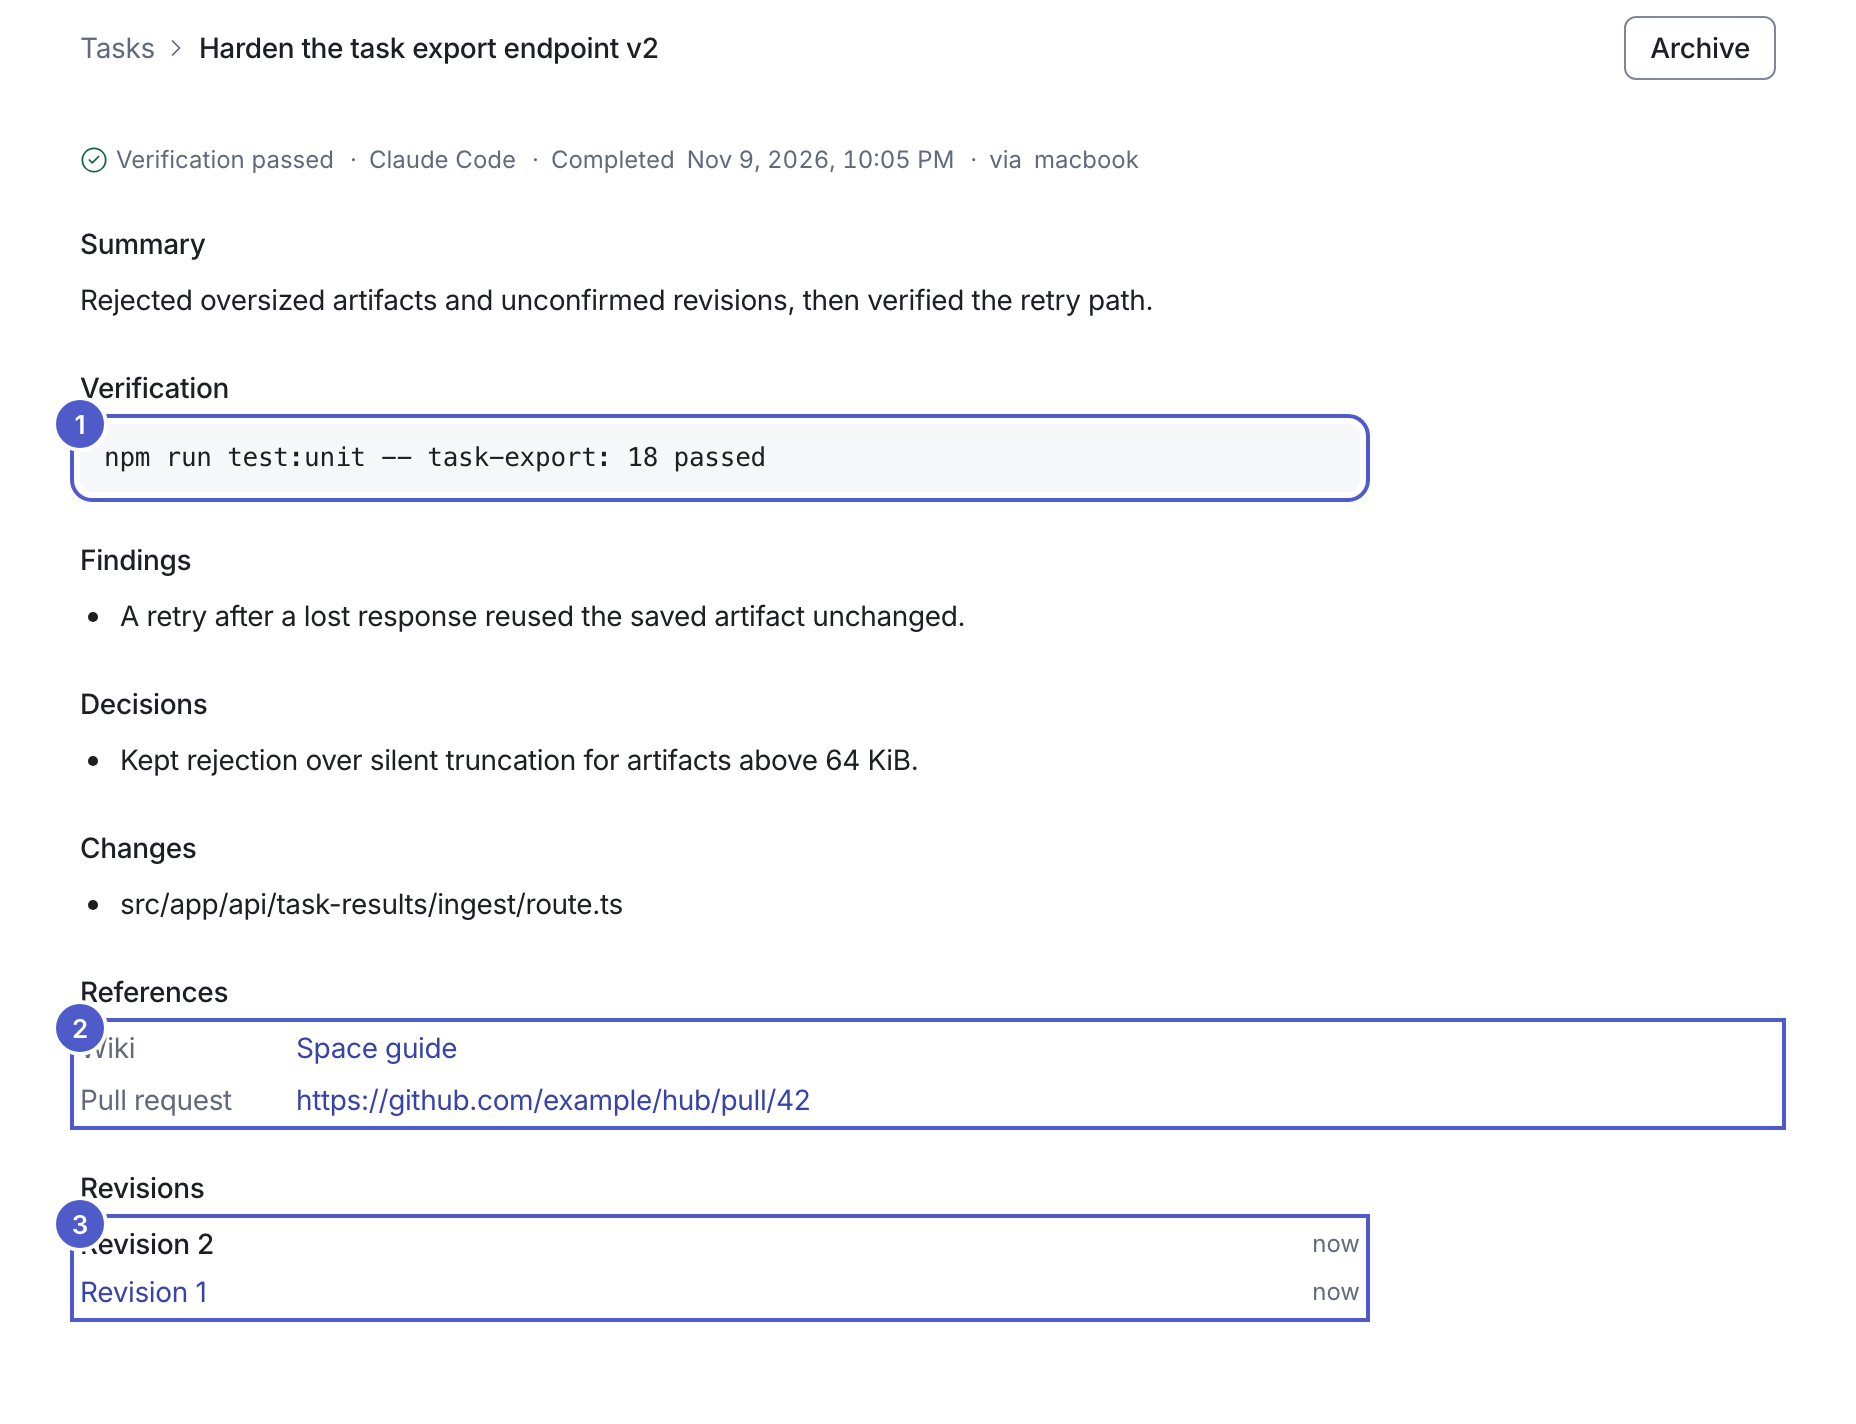
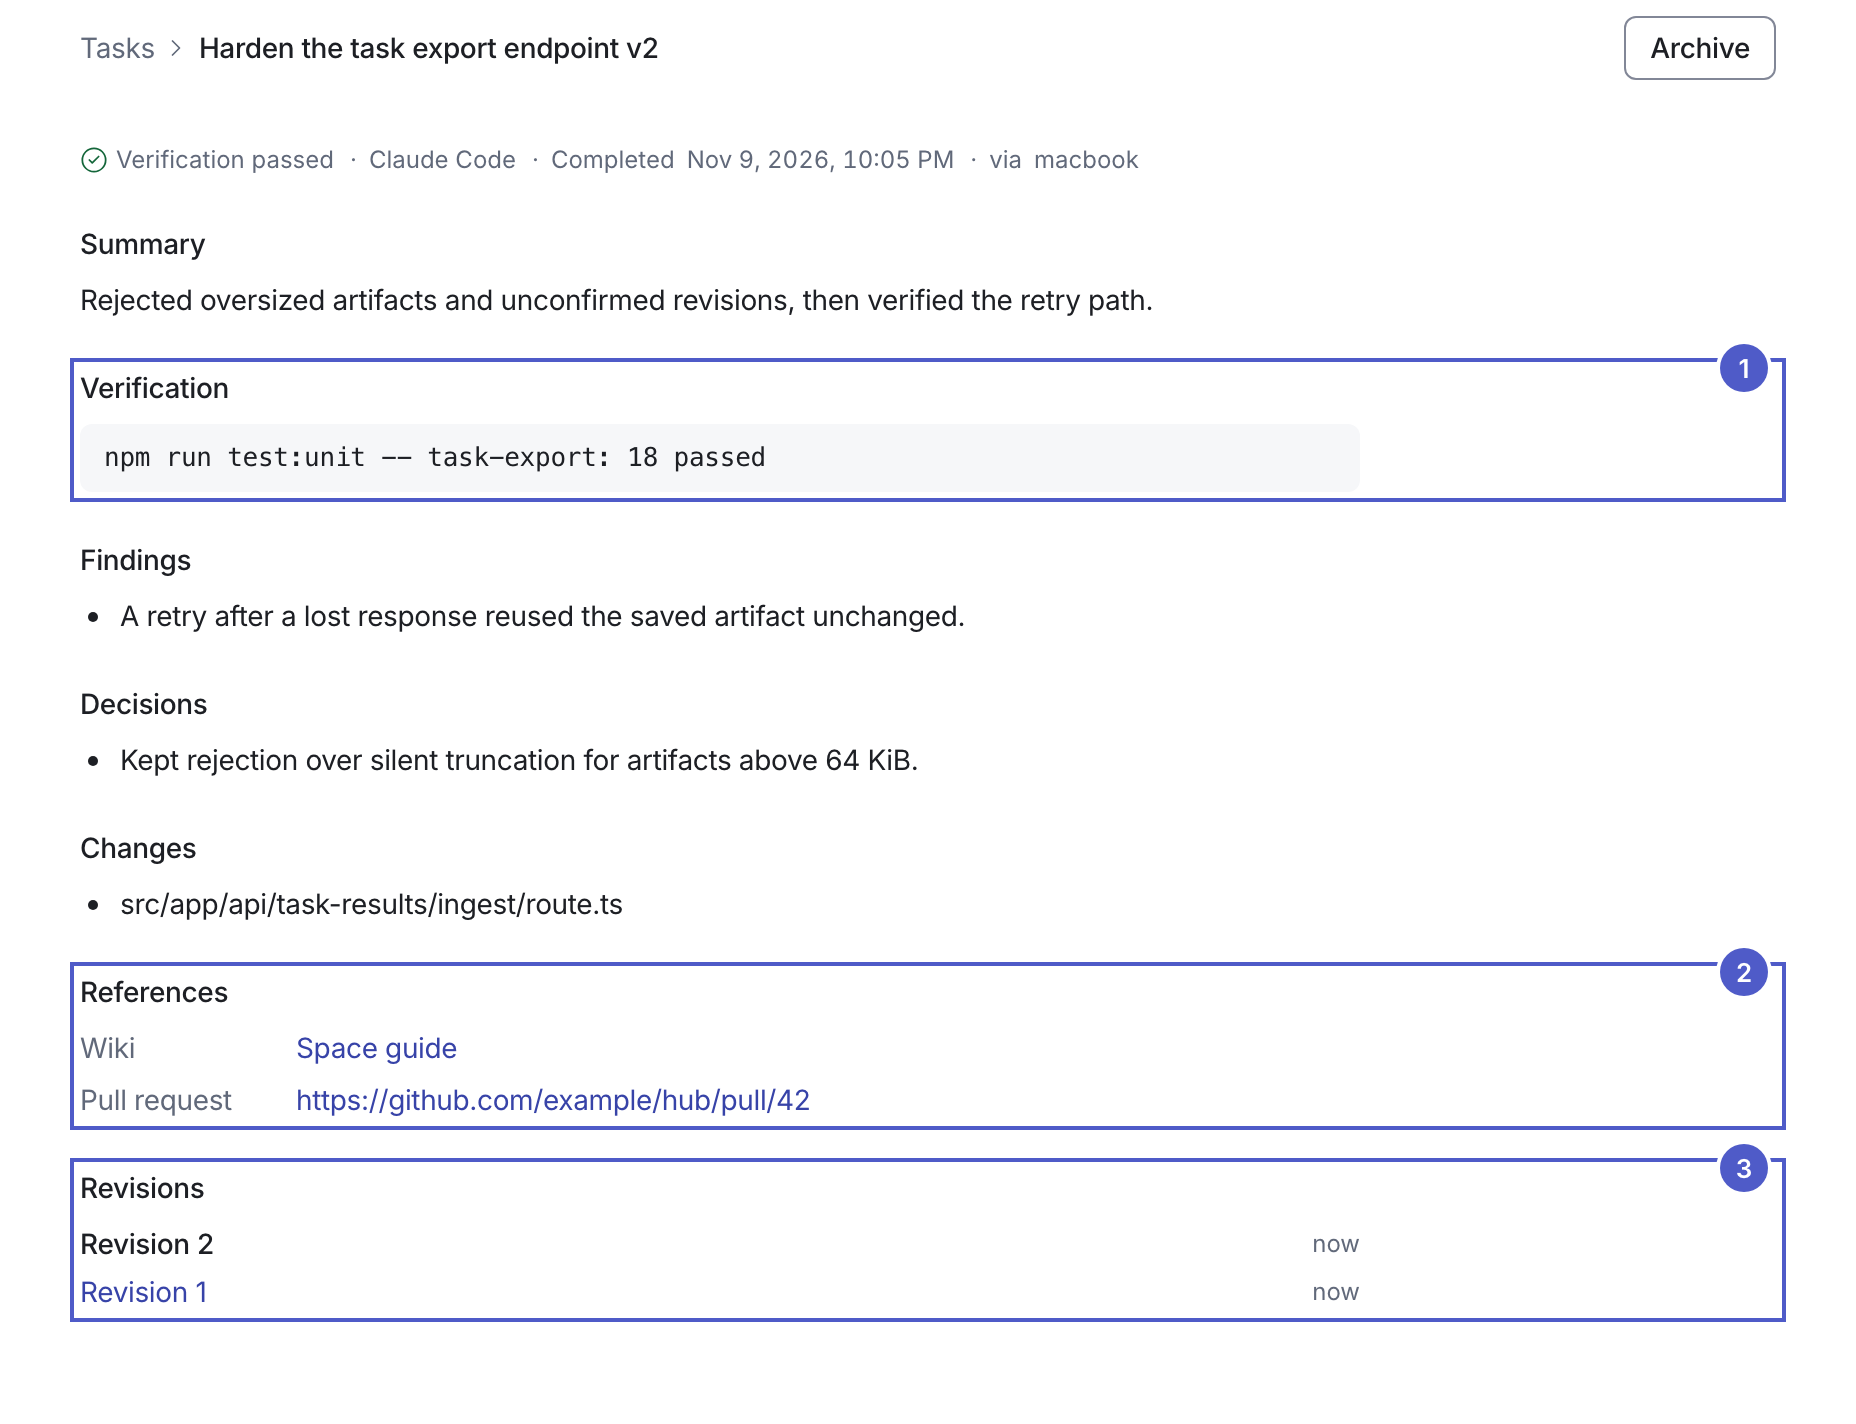
fix(help): correct Inbox and Tasks facts and keep capture marks clear

diff --git a/src/components/help/user-guide-content.ts b/src/components/help/user-guide-content.ts
@@ -82,7 +82,7 @@ export function userGuideContent(locale:GuideLocale,options:{taskSearch?:boolean
       ],[
         {title:"已讀、解決與未讀",items:[
           "開啟討論會標為已讀，不代表你已回覆或解決。",
-          "之後有人回覆會再次變成未讀；側欄 Inbox 的數字是未讀討論數。",
+          "之後有人回覆會再次變成未讀；側欄 Inbox 的數字是未讀通知數（留言、提及、分享與提案）。",
           "Resolve 是另一個動作，不會順便處理其他討論。",
         ]},
         {title:"失效連結與權限",items:[
@@ -107,7 +107,7 @@ export function userGuideContent(locale:GuideLocale,options:{taskSearch?:boolean
       section("tasks","Tasks：代理完成的任務",[
         "在 Claude Code 或 OpenCode 完成任務後執行 /hub-export，再從側欄開啟 Tasks。",
         "第一次使用：Set up export → 建立 binding → 複製一次性指令，在自己的機器執行。每台機器一個 binding；token 只顯示一次。",
-        "清單分 Active／Archived。每列顯示 Agent、revision 與完成時間，點開詳情會標明是哪個 binding 匯出的。",
+        "清單分 Active／Archived。每列顯示 Agent 與完成時間，超過一個版本時才顯示 revision；點開詳情會標明是哪個 binding 匯出的。",
         "詳情包含 Summary、Verification、Findings／Decisions／Changes、References 與 Revisions。Verification 是代理回報的結果，不是 Hub 的認證。",
         ...(taskSearch?["啟用搜尋時，每列還會顯示 verification 標記與命中的摘要片段。"]:[]),
       ],[
@@ -115,6 +115,8 @@ export function userGuideContent(locale:GuideLocale,options:{taskSearch?:boolean
           "Wiki 路徑或文件 id 會在你的 My Space 內解析成連結；找不到標 not found，多個來源同名標 ambiguous。",
           "檔案、commit 與 pull request 參照只是標籤；PR 只有在是 https 連結時才能開啟。",
           "同一個任務再次匯出會建立新 revision；舊版仍可從 Revisions 閱讀。",
+          "封存後仍可閱讀，也能從同一頁還原。",
+          "超過 64 KiB 的內容會被拒絕，不會截斷。",
           "只有完成的任務能匯出；代理不得編造測試、變更或參照。",
         ]},
         {title:"Token、binding 與撤銷",items:[
@@ -218,7 +220,7 @@ export function userGuideContent(locale:GuideLocale,options:{taskSearch?:boolean
       ],[
         {title:"Read, resolve and unread",items:[
           "Opening a discussion marks it read; it does not mean you replied or resolved it.",
-          "A later reply makes the discussion unread again. The sidebar's Inbox badge counts unread discussions.",
+          "A later reply makes the discussion unread again. The sidebar's Inbox badge counts unread notices — comments, mentions, shares and proposals.",
           "Resolving is a separate action; it does not mark other discussions read.",
         ]},
         {title:"Dead links and permissions",items:[
@@ -243,7 +245,7 @@ export function userGuideContent(locale:GuideLocale,options:{taskSearch?:boolean
       section("tasks","Tasks: results from coding agents",[
         "Finish a task in Claude Code or OpenCode, run /hub-export, then open Tasks from the sidebar.",
         "First use: Set up export → create a binding → copy the one-time line and run it on your own machine. One binding per machine; the token is shown once.",
-        "The list has Active / Archived. Each row shows the agent, revision and completion time, and opens the detail that names the binding.",
+        "The list has Active / Archived. Each row shows the agent and completion time, plus the revision when a task has more than one; it opens the detail that names the binding.",
         "The detail shows Summary, Verification, Findings / Decisions / Changes, References and Revisions. Verification is what the agent reported, not a Hub certification.",
         ...(taskSearch?["With search enabled, each result also shows the verification badge and a matched excerpt."]:[]),
       ],[
@@ -251,6 +253,8 @@ export function userGuideContent(locale:GuideLocale,options:{taskSearch?:boolean
           "A Wiki path or document id resolves to a link inside your My Space; a path with no match reads not found, and one present in several sources reads ambiguous.",
           "File, commit and pull-request references are labels; a pull request opens only when it is an https link.",
           "Exporting the same task again creates a new revision; older revisions stay readable from Revisions.",
+          "Archived results stay readable and can be restored from the same detail.",
+          "Artifacts above 64 KiB are rejected, not truncated.",
           "Only completed tasks can be exported. The agent must not invent tests, changes or references.",
         ]},
         {title:"Token, binding and revocation",items:[

diff --git a/tests/e2e/user-guide-screenshots.spec.ts b/tests/e2e/user-guide-screenshots.spec.ts
@@ -17,19 +17,19 @@ test.use({viewport:{width:1280,height:800},deviceScaleFactor:2});
  * Clips `region` (margin, capped height) and shoots both themes. Each target is outlined like a focus
  * ring and numbered at its top-left corner, kept inside the clip, in the order the caption gives the steps.
  */
-async function capture(page:Page,name:string,region:Locator,targets:Locator[]=[],{maxHeight=560,margin=16,offset=3}={}) {
+async function capture(page:Page,name:string,region:Locator,targets:Locator[]=[],{maxHeight=560,margin=16,offset=3,markSide="left"}:{maxHeight?:number;margin?:number;offset?:number;markSide?:"left"|"right"}={}) {
   const box=(await region.boundingBox())!;
   const clip={x:Math.max(0,box.x-margin),y:Math.max(0,box.y-margin),width:box.width+margin*2,height:Math.min(box.height+margin*2,maxHeight)};
   const boxes=await Promise.all(targets.map(target=>target.boundingBox()));
   for(const target of targets)await target.evaluate((el,offset)=>{el.style.outline="2px solid var(--kh-focus)";el.style.outlineOffset=`${offset}px`;},offset);
-  await page.evaluate(({boxes,clip})=>boxes.forEach((b,i)=>{
+  await page.evaluate(({boxes,clip,markSide})=>boxes.forEach((b,i)=>{
     const mark=document.createElement("div");
     mark.className="guide-mark";
     mark.textContent=String(i+1);
-    Object.assign(mark.style,{position:"fixed",left:`${Math.max(clip.x+4,b!.x-12)}px`,top:`${Math.max(clip.y+4,b!.y-12)}px`,width:"24px",height:"24px",borderRadius:"9999px",
+    Object.assign(mark.style,{position:"fixed",left:`${markSide==="right"?Math.min(clip.x+clip.width-28,b!.x+b!.width-28):Math.max(clip.x+4,b!.x-12)}px`,top:`${Math.max(clip.y+4,b!.y-12)}px`,width:"24px",height:"24px",borderRadius:"9999px",
       background:"var(--kh-primary)",color:"var(--kh-on-primary)",fontSize:"13px",fontWeight:"600",lineHeight:"24px",textAlign:"center",boxShadow:"0 0 0 2px var(--kh-bg)",zIndex:"2147483647"});
     document.body.append(mark);
-  }),{boxes,clip});
+  }),{boxes,clip,markSide});
   for(const theme of ["light","dark"]) {
     await page.evaluate(value=>{document.documentElement.dataset.theme=value;},theme);
     await page.screenshot({path:`${output}/${name}-${theme}.png`,clip,animations:"disabled",caret:"hide"});
@@ -137,18 +137,18 @@ test("capture user guide screenshots",async({page,request})=>{
     await page.goto(detailUrl);
     const detailSection=(name:string)=>page.locator("section").filter({has:page.getByRole("heading",{name,exact:true})});
     await capture(page,"tasks-detail",content,[
-      detailSection("Verification").locator("ul").first(),
-      detailSection("References").locator("dl").first(),
-      detailSection("Revisions").locator("ul").first(),
-    ],{maxHeight:900});
+      detailSection("Verification"),
+      detailSection("References"),
+      detailSection("Revisions"),
+    ],{maxHeight:900,markSide:"right"});
 
     await page.goto(`/w/${ws}/tasks/setup`);
     // The one-time line carries the token and must never reach a committed image.
     await expect(page.getByText("Copy the setup line now.")).toHaveCount(0);
     await capture(page,"tasks-setup",content,[
-      page.getByLabel("Label"),
+      page.locator("form").first(),
       page.getByRole("button",{name:"Rotate token"}),
-    ]);
+    ],{markSide:"right"});
 
     if(wanted("inbox")) {
       const note=await (await request.post(`/api/workspaces/${ws}/documents`,{data:{
@@ -200,10 +200,10 @@ test("capture user guide screenshots",async({page,request})=>{
       await expect(page.getByRole("searchbox",{name:"Search tasks"})).toBeVisible();
       await capture(page,"tasks-search",content,[
         page.getByRole("searchbox",{name:"Search tasks"}),
-        page.getByRole("combobox",{name:"Agent"}),
+        page.locator("label").filter({has:page.getByRole("combobox",{name:"Agent"})}),
         page.locator("#task-search-filter-form summary").first(),
         page.getByRole("button",{name:"Apply filters"}),
-      ]);
+      ],{markSide:"right"});
     } finally {
       server.kill("SIGTERM");
     }

diff --git a/tests/e2e/user-guide.spec.ts b/tests/e2e/user-guide.spec.ts
@@ -1,4 +1,5 @@
 import {mkdir} from "node:fs/promises";
+import {spawn} from "node:child_process";
 import {test,expect} from "./fixtures/test";
 
 test("Home help covers first import, repeat sync and recovery in both languages",async({page,request})=>{
@@ -116,5 +117,27 @@ test("Home help covers first import, repeat sync and recovery in both languages"
         if(output)await figure.screenshot({path:`${output}/${id}-${width}-${theme}.png`,animations:"disabled"});
       }
     }
+  }
+});
+
+test("a flag-on deployment shows the Task Search material",async({page})=>{
+  const port=Number(process.env.KM_E2E_PORT??"3101")+18;
+  const origin="http://127.0.0.1:"+port;
+  const server=spawn(process.execPath,["node_modules/next/dist/bin/next","start","--hostname","127.0.0.1","--port",String(port)],{
+    cwd:process.cwd(),env:{...process.env,NODE_ENV:"production",KM_IDENTITY_PROVIDER:"local",TASK_SEARCH_READ_ENABLED:"true",PORT:String(port)},stdio:["ignore","pipe","pipe"],
+  });
+  try {
+    const until=Date.now()+40_000;
+    while(Date.now()<until) {
+      if(server.exitCode!==null)throw new Error("Task Search guide server exited.");
+      try { await fetch(origin,{redirect:"manual"}); break; } catch { await new Promise(resolve=>setTimeout(resolve,350)); }
+    }
+    await page.goto(`${origin}/help?lang=en`);
+    await expect(page.getByRole("heading",{name:"Tasks: results from coding agents",exact:true})).toBeAttached();
+    await expect(page.getByText("With search enabled, each result also shows the verification badge and a matched excerpt.",{exact:true})).toBeAttached();
+    await expect(page.getByText("Search and filters",{exact:true})).toBeAttached();
+    await expect(page.getByRole("img",{name:/① Search title, summary and findings/}).first()).toBeAttached();
+  } finally {
+    server.kill("SIGTERM");
   }
 });

diff --git a/tests/unit/user-guide-content.test.ts b/tests/unit/user-guide-content.test.ts
@@ -18,6 +18,24 @@ describe("user guide content", () => {
     expect(text("en", true)).toContain("Search title, summary and findings");
     expect(text("zh-TW", false)).not.toContain("搜尋標題、摘要與 findings");
     expect(text("zh-TW", true)).toContain("搜尋標題、摘要與 findings");
+    expect(text("en", false)).not.toContain("With search enabled");
+    expect(text("en", true)).toContain("With search enabled");
+    expect(text("en", false)).not.toContain("Search and filters");
+    expect(text("en", true)).toContain("Search and filters");
+    expect(text("zh-TW", false)).not.toContain("啟用搜尋時");
+    expect(text("zh-TW", true)).toContain("啟用搜尋時");
+    expect(text("zh-TW", false)).not.toContain("搜尋與篩選");
+    expect(text("zh-TW", true)).toContain("搜尋與篩選");
+  });
+
+  it("states the badge, row and archive rules the product actually uses", () => {
+    for (const locale of ["en", "zh-TW"] as const) {
+      const body = text(locale, false);
+      expect(body).toContain(locale === "en" ? "counts unread notices" : "未讀通知數");
+      expect(body).toContain(locale === "en" ? "revision when a task has more than one" : "超過一個版本時才顯示 revision");
+      expect(body).toContain(locale === "en" ? "Archived results stay readable and can be restored" : "封存後仍可閱讀，也能從同一頁還原");
+      expect(body).toContain("64 KiB");
+    }
   });
 
   it("links the new chapters into My Space", () => {

diff --git a/docs/superpowers/plans/2026-11-10-help-guide-tasks-inbox.md b/docs/superpowers/plans/2026-11-10-help-guide-tasks-inbox.md
@@ -100,7 +100,7 @@ Insert the **inbox** section (`id:"inbox"`) with:
 - en title `Inbox: discussions, mentions and shares`; zh-TW title `收件匣：討論、提及與分享`.
 - Bullets covering, in this order: the three sources (your documents, followed discussions, mentions); relationship filters `All / My documents / Following / Mentions` plus `Status` (`Any / Open / Resolved`) and `Unread`; selecting a row to read the thread beside the list and `Reply` / `Resolve`, with `Open document` for the article, and the plain-list behaviour below the split width; `Mark read`, `Mark all read`, `Refresh`; `Proposals` and `Shared with you`, noting the latter also lives in Shares.
 - Three `details` blocks:
-  - `Read, resolve and unread` — opening marks read; a later reply can make it unread again; the sidebar badge counts unread discussions; resolving is separate.
+  - `Read, resolve and unread` — opening marks read; a later reply can make it unread again; the sidebar badge counts unread notices (comments, mentions, shares and proposals); resolving is separate.
   - `Dead links and permissions` — a revoked or expired link reads as unavailable and opens nothing; replying to a followed discussion needs a valid link, a signed-in identity and enabled comment writes; the Inbox grants no access.
   - `Inbox and Shares` — Inbox is the discussion index and notices; Shares manages your own links, expiry/revocation, saved shares and followed discussions.
 - `links:[{target:"inbox",label:"Open Inbox"}]` (zh-TW: `開啟 Inbox`).
@@ -108,7 +108,7 @@ Insert the **inbox** section (`id:"inbox"`) with:
 Insert the **tasks** section (`id:"tasks"`) with:
 
 - en title `Tasks: results from coding agents`; zh-TW title `Tasks：代理完成的任務`.
-- Bullets covering, in this order: finish in Claude Code or OpenCode, run `/hub-export`, open Tasks; first use (`Set up export` → create a binding → copy the one-time line and run it on your machine; one binding per machine; token shown once); `Active / Archived` list rows showing agent, revision and completion time and opening the detail that names the binding; detail sections `Summary`, `Verification`, `Findings / Decisions / Changes`, `References`, `Revisions`, with Verification described as agent-reported, not Hub-certified.
+- Bullets covering, in this order: finish in Claude Code or OpenCode, run `/hub-export`, open Tasks; first use (`Set up export` → create a binding → copy the one-time line and run it on your machine; one binding per machine; token shown once); `Active / Archived` list rows showing the agent and completion time, plus the revision when a task has more than one, and opening the detail that names the binding; detail sections `Summary`, `Verification`, `Findings / Decisions / Changes`, `References`, `Revisions`, with Verification described as agent-reported, not Hub-certified.
 - One extra bullet only when `taskSearch` is true: the search row also shows the verification badge and a matched excerpt.
 - Two `details` blocks:
   - `References and revisions` — Wiki path/document id resolves inside your My Space; `not found` and `ambiguous`; file/commit/PR labels and https-only PR links; re-exporting the same task creates a revision and old revisions stay readable; only completed tasks export.

diff --git a/docs/superpowers/specs/2026-11-10-help-guide-tasks-inbox-design.md b/docs/superpowers/specs/2026-11-10-help-guide-tasks-inbox-design.md
@@ -144,9 +144,10 @@ in the guide to look.
   - First use: Set up export → create a binding → copy the one-time setup line
     and run it on your own machine. One binding per machine; the token is shown
     once.
-  - The list has Active / Archived. Each row shows the agent, revision and
-    completion time, and links to the detail; the detail names the binding that
-    exported it. Archived results stay readable and can be restored.
+  - The list has Active / Archived. Each row shows the agent and completion
+    time, plus the revision when a task has more than one, and links to the
+    detail; the detail names the binding that exported it. Archived results stay
+    readable and can be restored.
   - When `taskSearch` is true, the row also shows the verification badge and a
     matched excerpt; the search detail says so.
   - Detail shows Summary, Verification, Findings / Decisions / Changes,
